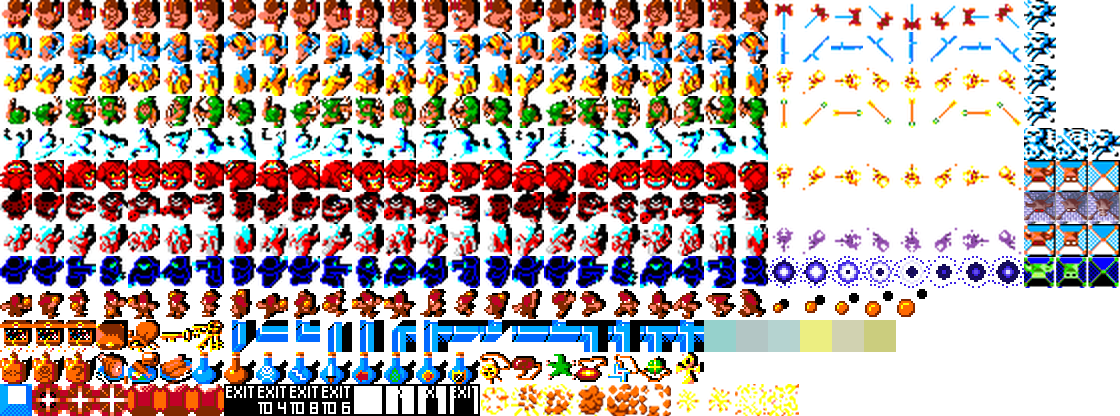
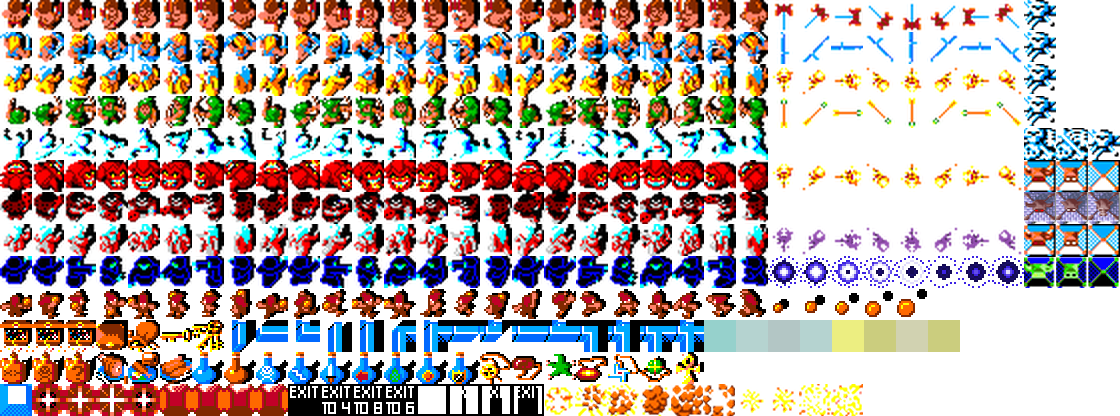
animation gfx adjust, teles, traps, stuns

Changed region(s): [[0.1875, 0.9062, 0.7812, 1.0], [0.6875, 0.75, 0.875, 0.8438], [0.0938, 0.9062, 0.1562, 1.0]]

diff --git a/js/gauntlet.js b/js/gauntlet.js
@@ -57,19 +57,19 @@ Gauntlet = function() {
       },
 
       TREASURE = {
-        HEALTH:  { sx: 0, sy: 11, frames: 1, fpf: FPS/10, score:  10, health:  200, canbeshot: 2,   sound: 'food' },
-        POISON:  { sx: 1, sy: 11, frames: 1, fpf: FPS/10, score:   0, damage:  50,   sound: 'potion' },
-        FOOD1:   { sx: 3, sy: 11, frames: 1, fpf: FPS/10, score:  10, health:  200,   sound: 'food'   },
-        FOOD2:   { sx: 4, sy: 11, frames: 1, fpf: FPS/10, score:  10, health:  200,   sound: 'food'   },
-        FOOD3:   { sx: 5, sy: 11, frames: 1, fpf: FPS/10, score:  10, health:  200,   sound: 'food'   },
-        KEY:     { sx: 5, sy: 10, frames: 1, fpf: FPS/10, score:  20, key:    true,  sound: 'key'    },
-        POTION:  { sx: 6, sy: 11, frames: 1, fpf: FPS/10, score:  50, potion: true, canbeshot: 2,  sound: 'potion' },
-        GOLD:    { sx: 0, sy: 10, frames: 3, fpf: FPS/10, score: 100,  scmult : 1,              sound: 'gold'   },
-        LOCKED:    { sx: 3, sy: 10, frames: 1, fpf: FPS/10, score: 500,                sound: 'gold'   },
-        BAG:    { sx: 4, sy: 10, frames: 1, fpf: FPS/10, score: 500,  scmult : 3.5,                sound: 'gold'   },
-        TELEPORT:       { sx: 1, sy: 12, frames:3, speed: 1*FPS, fpf: FPS/7 ,   sound: 'teleport'  },
-        TRAP:       { sx: 22, sy: 10, frames:3, speed: 1*FPS, fpf: FPS/5 ,   sound: 'trap'  },
-        STUN:       { sx: 25, sy: 10, frames:3, speed: 1*FPS, fpf: FPS/4 ,   sound: 'stun'  }
+        HEALTH:  { sx: 0, sy: 11, frames: 1, fpf: FPS/10, score:  10, health:  200, canbeshot: 2,   sound: 'collectfood' },
+        POISON:  { sx: 1, sy: 11, frames: 1, fpf: FPS/10, score:   0, damage:  50,   sound: 'collectpotion' },
+        FOOD1:   { sx: 3, sy: 11, frames: 1, fpf: FPS/10, score:  10, health:  200,   sound: 'collectfood'   },
+        FOOD2:   { sx: 4, sy: 11, frames: 1, fpf: FPS/10, score:  10, health:  200,   sound: 'collectfood'   },
+        FOOD3:   { sx: 5, sy: 11, frames: 1, fpf: FPS/10, score:  10, health:  200,   sound: 'collectfood'   },
+        KEY:     { sx: 5, sy: 10, frames: 1, fpf: FPS/10, score:  20, key:    true,  sound: 'collectkey'    },
+        POTION:  { sx: 6, sy: 11, frames: 1, fpf: FPS/10, score:  50, potion: true, canbeshot: 2,  sound: 'collectpotion' },
+        GOLD:    { sx: 0, sy: 10, frames: 3, fpf: FPS/10, score: 100,  scmult : 1,              sound: 'collectgold'   },
+        LOCKED:    { sx: 3, sy: 10, frames: 1, fpf: FPS/10, score: 500,                sound: 'collectgold'   },
+        BAG:    { sx: 4, sy: 10, frames: 1, fpf: FPS/10, score: 500,  scmult : 3.5,                sound: 'collectgold'   },
+        TELEPORT:       { sx: 1, sy: 12, frames:4, speed: 1*FPS, fpf: FPS/5 ,   sound: 'teleport'  },
+        TRAP:       { sx: 22, sy: 10, frames:4, speed: 1*FPS, fpf: FPS/5 ,   sound: 'trap'  },
+        STUN:       { sx: 26, sy: 10, frames:4, speed: 1*FPS, fpf: FPS/4 ,   sound: 'stun'  }
       },
 // after {n} health tics with no player move / fire, all walls are exits
 /// RESTORE to 200
@@ -81,16 +81,16 @@ Gauntlet = function() {
       DOOR = {
         HORIZONTAL: { sx: 16, sy: 10, speed: 0.05*FPS, horizontal: true,  vertical: false, dx: 2, dy: 0 },
         VERTICAL:   { sx: 11, sy: 10, speed: 0.05*FPS, horizontal: false, vertical: true,  dx: 0, dy: 8 },
-        EXIT:       { sx: 7, sy: 12, speed: 3*FPS, fpf: FPS/30 },
-        EXIT4:       { sx: 8, sy: 12, speed: 3*FPS, fpf: FPS/30 },
-        EXIT8:       { sx: 9, sy: 12, speed: 3*FPS, fpf: FPS/30 },
-        EXIT6:       { sx: 10, sy: 12, speed: 3*FPS, fpf: FPS/30 },
-        EXITMOVE:       { sx: 11, sy: 12, speed: 3*FPS, fpf: FPS/30 }
+        EXIT:       { sx: 9, sy: 12, speed: 3*FPS, fpf: FPS/30 },
+        EXIT4:       { sx: 10, sy: 12, speed: 3*FPS, fpf: FPS/30 },
+        EXIT8:       { sx: 11, sy: 12, speed: 3*FPS, fpf: FPS/30 },
+        EXIT6:       { sx: 12, sy: 12, speed: 3*FPS, fpf: FPS/30 },
+        EXITMOVE:       { sx: 13, sy: 12, speed: 3*FPS, fpf: FPS/30 }
       },
       FX = {
-        GENERATOR_DEATH: { sx: 15, sy: 12, frames: 6, fpf: FPS/10 },
-        MONSTER_DEATH:   { sx: 15, sy: 12, frames: 6, fpf: FPS/20 },
-        WEAPON_HIT:      { sx: 21, sy: 12, frames: 2, fpf: FPS/20 },
+        GENERATOR_DEATH: { sx: 17, sy: 12, frames: 6, fpf: FPS/10 },
+        MONSTER_DEATH:   { sx: 17, sy: 12, frames: 6, fpf: FPS/20 },
+        WEAPON_HIT:      { sx: 23, sy: 12, frames: 2, fpf: FPS/20 },
         PLAYER_GLOW:     { frames: FPS/2, border: 5 }
       },
       PLAYERS   = [ PLAYER.WARRIOR, PLAYER.VALKYRIE, PLAYER.WIZARD, PLAYER.ELF ],
@@ -1994,7 +1994,7 @@ Gauntlet = function() {
     onPlayerFire:        function(player)            { this.play(this.sounds["fire" + player.type.name]);                                                     },
     onMonsterFire:       function(monster)           { this.play(this.sounds.fire);                                                                           },
     onDoorOpen:          function(door)              { this.play(this.sounds.opendoor);                                                                       },
-    onTreasureCollected: function(treasure, player)  { this.play(this.sounds["collect" + treasure.type.sound]);                                               },
+    onTreasureCollected: function(treasure, player)  { this.play(this.sounds[treasure.type.sound]);                                               },
     onMonsterDeath:      function(monster, by, nuke) { this.play(nuke ? this.sounds.generatordeath : this.sounds["monsterdeath" + Game.Math.randomInt(1,3)]); },
     onGeneratorDeath:    function(generator, by)     { this.play(this.sounds.generatordeath);                                                                 },
     onHighScore:         function(player)            { this.play(this.sounds.highscore);                                                                      },
